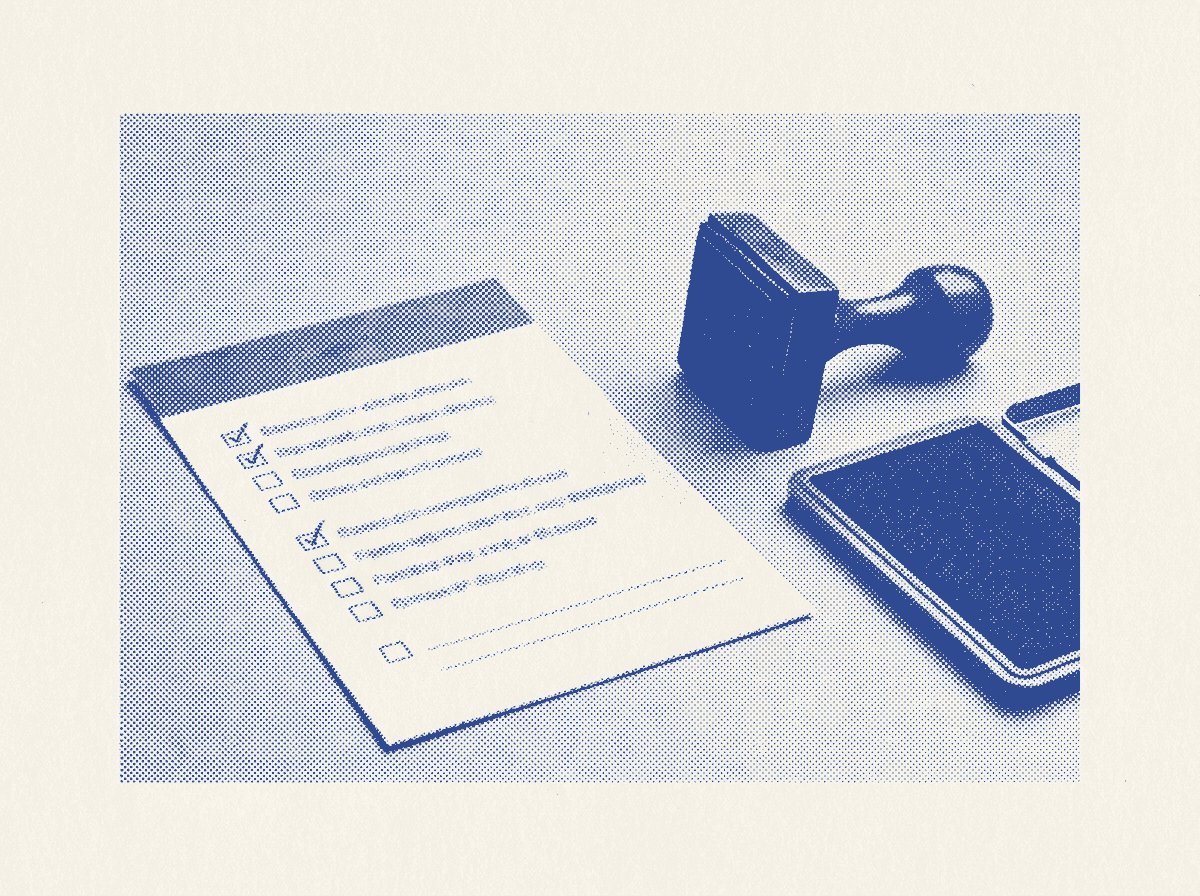
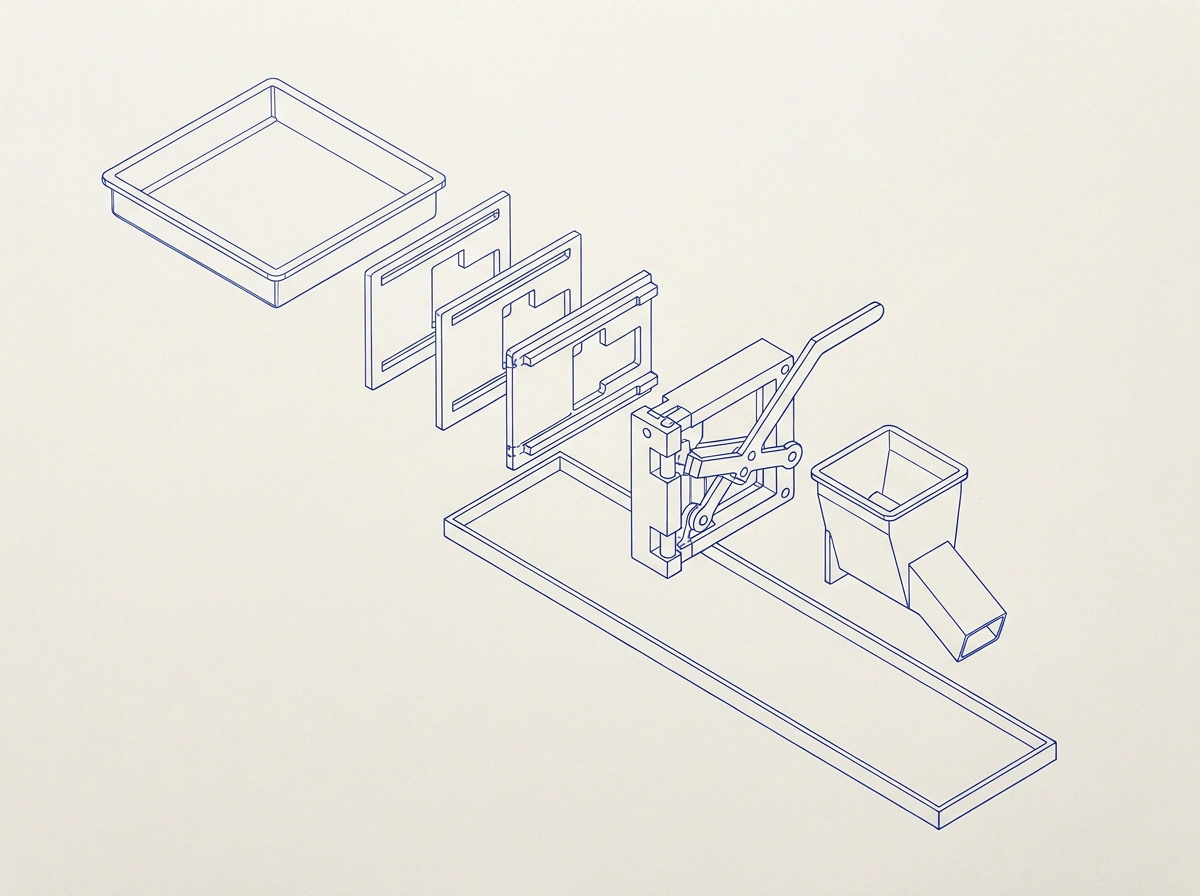
feat(plates): re-roll wave C pilots as blueprint plates with real-type labels
Both pilot plates are regenerated label-free in the v3 art direction: an
exploded blueprint rendering of the chapter's system as an object, line work
in two inks on paper. FIG_021 is the operating layers as six plates on one
axis; FIG_022 is the approval gate as an exploded mechanism over a tray.

Labels are now DOM text. PlateLabels draws them through the existing
LeaderLabel primitive from percentage anchors stored beside the plate, so the
type is real, selectable, and in the same mono as the figures. Its coordinate
space is one unit per rendered pixel, and it pins the blueprint ink rather
than inheriting the themed one.

plate-duotone comes off the chapter plates per Connor's ruling at the pilot
gate. The rule and the /about portrait that uses it are untouched.

Changed region(s): [[0.0617, 0.0938, 0.925, 0.9375], [0.8633, 0.9688, 0.9867, 1.0]]

diff --git a/app/case-studies/[slug]/page.tsx b/app/case-studies/[slug]/page.tsx
@@ -28,6 +28,8 @@ import {
   Fig016ClaimToApproval,
   Fig017TwoFunctionModel,
   Fig018SchemaToPage,
+  PlateLabels,
+  type PlateLabel,
 } from "@/components/figures";
 import { caseStudies, getCaseStudy } from "@/content/case-studies";
 import { cta } from "@/content/cover";
@@ -72,15 +74,25 @@ const chapterFigures: Record<string, React.ComponentType> = {
 };
 
 /**
- * Chapter halftone plates (Wave C §2). Keyed by slug, beside `chapterFigures`
- * and deliberately not a `CaseStudy` field: a plate is a property of the route,
- * not of the content module. A slug absent from this table renders
- * diagram-only, which stays legal.
+ * Chapter plates (Wave C §2, v3 art direction). Keyed by slug, beside
+ * `chapterFigures` and deliberately not a `CaseStudy` field: a plate is a
+ * property of the route, not of the content module. A slug absent from this
+ * table renders diagram-only, which stays legal.
+ *
+ * A plate is a label-free exploded rendering of the chapter's system as an
+ * object. Every word on it is DOM text placed by `PlateLabels`, so the type is
+ * real, selectable, and in the same mono as the figures. Label copy comes from
+ * that chapter's approved prose and never carries a numeral.
  *
  * Files are named by figure number rather than by slug, so no client or
  * employer name can reach a public path. The plate never carries a claim: `alt`
  * describes the object, the caption states the claim in words, and no numeral
  * appears in either.
+ *
+ * No `plate-duotone` here. Connor locked that at the pilot gate: a blueprint
+ * rendering is already the site's ink on the site's paper, so it renders as
+ * authored in both themes. The duotone rule stays for the `/about` portrait,
+ * which is a photograph.
  */
 type ChapterPlate = {
   fig: string;
@@ -90,6 +102,7 @@ type ChapterPlate = {
   subject: string;
   alt: string;
   caption: string;
+  labels: PlateLabel[];
 };
 
 const chapterPlates: Record<string, ChapterPlate> = {
@@ -98,18 +111,32 @@ const chapterPlates: Record<string, ChapterPlate> = {
     src: "/case-studies/plate-fig-021.webp",
     width: 1200,
     height: 896,
-    subject: "BINDER",
-    alt: "Halftone plate of a ring binder lying open flat on a desk beneath a lamp.",
+    subject: "LAYER STACK",
+    alt: "Blueprint rendering of six flat plates exploded along a vertical axis on four guide posts.",
     caption: "Every layer of the operating system existed as something written down.",
+    /* Label copy: the chapter intro names the definitions, the routing rules,
+       and the cadence put on top, in that order from the base up. */
+    labels: [
+      { x: 20, y: 14, dx: 22, dy: 5, text: "Cadence" },
+      { x: 80, y: 44, dx: -22, dy: 8, text: "Routing" },
+      { x: 24, y: 84, dx: 14, dy: -2, text: "Definitions" },
+    ],
   },
   "ai-native-gtm": {
     fig: "FIG_022",
     src: "/case-studies/plate-fig-022.webp",
     width: 1200,
     height: 896,
-    subject: "CHECKLIST",
-    alt: "Halftone plate of a printed checklist on a desk with a rubber stamp and an ink pad beside it.",
+    subject: "GATE",
+    alt: "Blueprint rendering of a gate mechanism exploded along one axis above a long flat tray.",
     caption: "Nothing released until a person approved it, and every run left a record.",
+    /* Label copy: the chapter intro says agents stage the work, humans approve
+       it, and every run leaves a trail somebody can audit. */
+    labels: [
+      { x: 44, y: 10, dx: -2, dy: 22, text: "Staged work" },
+      { x: 76, y: 24, dx: -8, dy: 18, text: "Approval" },
+      { x: 26, y: 88, dx: 14, dy: -2, text: "Audit trail" },
+    ],
   },
 };
 
@@ -313,7 +340,9 @@ export default async function CaseStudyPage({
             mechanism; the plate shows what the mechanism was made of. */}
         {plate ? (
           <figure className="mt-10 max-w-[26rem]">
-            <div className="border border-blueprint/40 p-2">
+            {/* `relative` so the label overlay can sit on `inset-2` and land on
+                the image box rather than on the frame's padding. */}
+            <div className="relative border border-blueprint/40 p-2">
               <Image
                 src={plate.src}
                 alt={plate.alt}
@@ -321,7 +350,12 @@ export default async function CaseStudyPage({
                 height={plate.height}
                 sizes="(min-width: 768px) 26rem, 100vw"
                 loading="lazy"
-                className="plate-duotone block h-auto w-full"
+                className="block h-auto w-full"
+              />
+              <PlateLabels
+                labels={plate.labels}
+                width={plate.width}
+                height={plate.height}
               />
             </div>
             <figcaption className="mt-3 flex flex-wrap items-baseline gap-x-3 gap-y-1">

diff --git a/components/figures/PlateLabels.tsx b/components/figures/PlateLabels.tsx
@@ -1,0 +1,101 @@
+import type { CSSProperties } from "react";
+
+import { LeaderLabel } from "@/components/figures/LeaderLabel";
+
+/**
+ * Leader labels drawn over a chapter plate (Wave C §2).
+ *
+ * The plates are generated label-free on purpose: an image model asked to
+ * letter a technical drawing produces marks that look like type without being
+ * type, which is unreadable, untranslatable, and unsearchable. So the image
+ * carries the object and this overlay carries the words, in the same Geist
+ * Mono, the same blueprint ink, and the same `LeaderLabel` primitive the
+ * hand-authored figures use.
+ *
+ * Anchors are percentages of the image box rather than pixels, so a plate can
+ * be re-encoded, re-cropped, or regenerated at another size without every
+ * label drifting off the part it names.
+ *
+ * The overlay is decorative in the accessibility sense: it repeats structure
+ * the `<figcaption>` and `alt` already carry in prose, so it is `aria-hidden`
+ * and takes no pointer events.
+ */
+
+export type PlateLabel = {
+  /** Label anchor, percent of image width. */
+  x: number;
+  /** Label anchor, percent of image height. */
+  y: number;
+  /** Offset to the part being named, percent of image width. */
+  dx: number;
+  /** Offset to the part being named, percent of image height. */
+  dy: number;
+  /** One or two words, from the chapter's approved copy. Never a numeral. */
+  text: string;
+};
+
+export type PlateLabelsProps = {
+  labels: PlateLabel[];
+  /** Intrinsic plate dimensions, used only to set the overlay's aspect. */
+  width: number;
+  height: number;
+  className?: string;
+};
+
+/**
+ * Overlay coordinate space, in units across the plate's width.
+ *
+ * `LeaderLabel`'s authored constants are absolute: 11-unit type, a 10-unit
+ * gap, a 7-unit arrowhead. They read correctly only when one unit is about one
+ * CSS pixel. A chapter plate is capped at `max-w-[26rem]`, 416px, so the space
+ * is sized to that rather than to the ~640-unit viewBox the full-column
+ * figures use. Set it wider and the labels come out too small to read.
+ */
+const SPACE_WIDTH = 416;
+
+/**
+ * The plate's own ink, matching the generation palette.
+ *
+ * `LeaderLabel` strokes and fills from `var(--blueprint)`, which flips with
+ * the theme. That is right over a themed page background and wrong here: the
+ * plate no longer inverts, so its paper stays cream in both themes and a
+ * theme-lightened ink loses contrast against it in dark mode. Overriding the
+ * variable on the overlay's root scopes the fix to this subtree, so
+ * `LeaderLabel` needs no special case.
+ */
+const PLATE_INK = "#2E47F1";
+
+export function PlateLabels({
+  labels,
+  width,
+  height,
+  className,
+}: PlateLabelsProps) {
+  if (labels.length === 0) return null;
+
+  const spaceHeight = (SPACE_WIDTH * height) / width;
+  const toX = (pct: number) => (pct / 100) * SPACE_WIDTH;
+  const toY = (pct: number) => (pct / 100) * spaceHeight;
+
+  return (
+    <svg
+      aria-hidden="true"
+      focusable="false"
+      viewBox={`0 0 ${SPACE_WIDTH} ${spaceHeight}`}
+      preserveAspectRatio="xMidYMid meet"
+      style={{ "--blueprint": PLATE_INK } as CSSProperties}
+      className={`pointer-events-none absolute inset-2 block ${className ?? ""}`}
+    >
+      {labels.map((label) => (
+        <LeaderLabel
+          key={label.text}
+          x={toX(label.x)}
+          y={toY(label.y)}
+          dx={toX(label.dx)}
+          dy={toY(label.dy)}
+          text={label.text}
+        />
+      ))}
+    </svg>
+  );
+}

diff --git a/components/figures/index.ts b/components/figures/index.ts
@@ -9,6 +9,11 @@
 export { Figure, type FigureProps } from "@/components/figures/Figure";
 export { LeaderLabel, type LeaderLabelProps } from "@/components/figures/LeaderLabel";
 export {
+  PlateLabels,
+  type PlateLabel,
+  type PlateLabelsProps,
+} from "@/components/figures/PlateLabels";
+export {
   IsoBox,
   isoPoint,
   isoPolygon,
